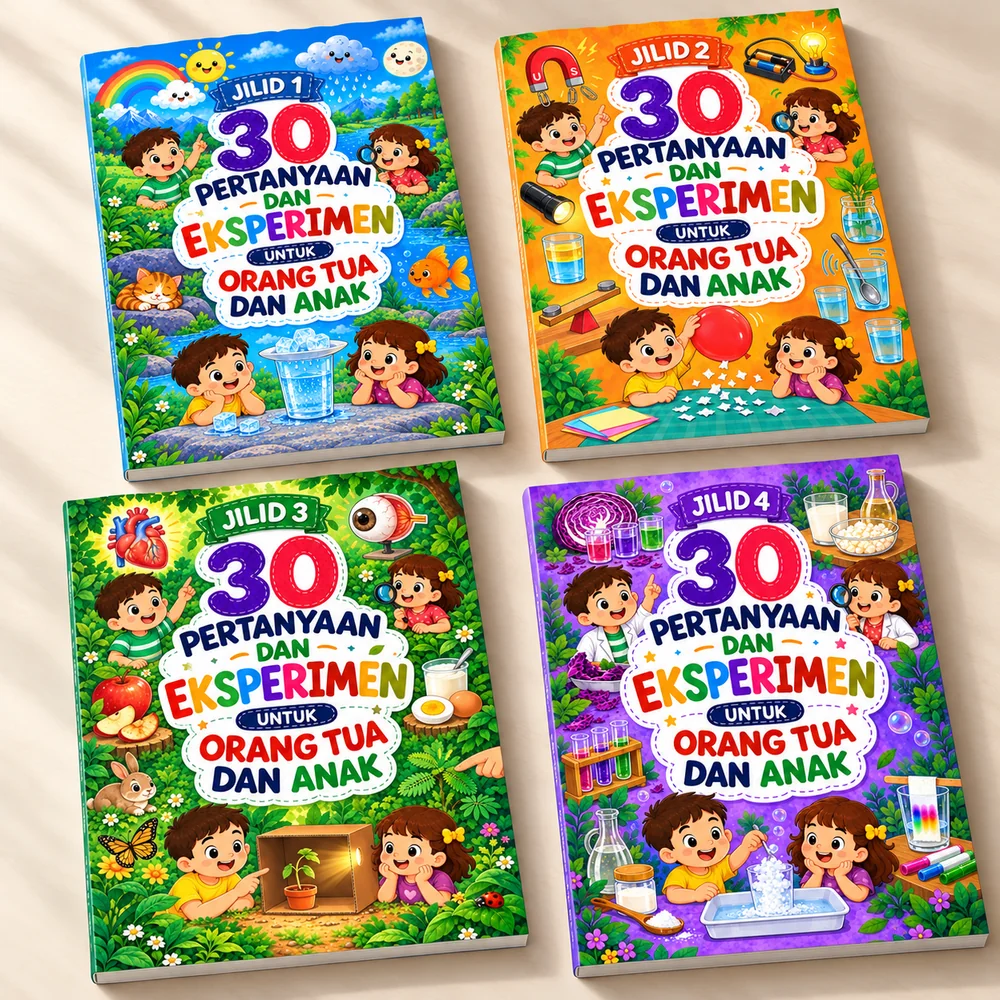
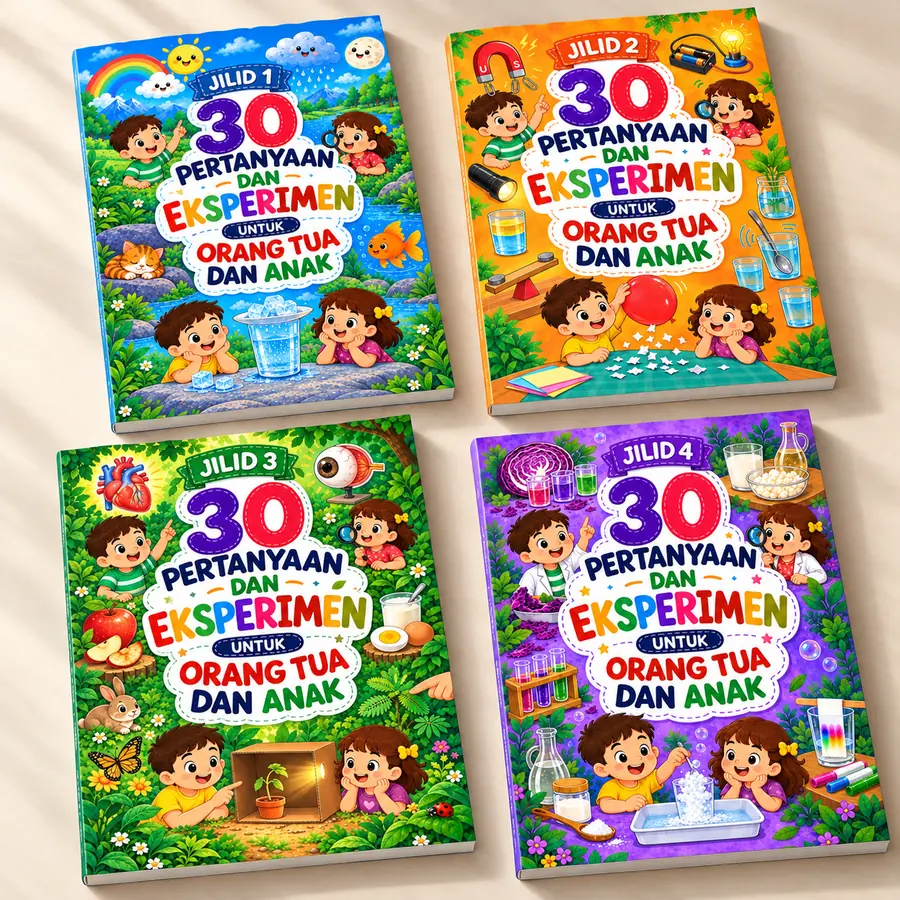
feat: add new animal covers and update mengenal hewan data

diff --git a/src/data/eksperimen_dan_cerita_anak.ts b/src/data/eksperimen_dan_cerita_anak.ts
@@ -25,6 +25,64 @@ const eksperimenJilid = [1, 2, 3, 4].map((jilid, i): Book => ({
   syn: eksperimenSyn,
 }));
 
+const MENGENAL_HEWAN_DIR = "/covers/Eksperimen_dan_cerita_anak";
+
+const mengenalHewanSyn = "Buku edukasi dan cerita ringan berukuran 20x20 cm untuk orang tua dan anak usia 3–10 tahun. Total 32 halaman: 26 halaman isi dan 6 halaman pendukung. Merupakan buku pengenalan hewan dengan bacaan ringan, berkonsep 2 arah seakan-akan buku mengajak pembaca sebagai lawan bicara. Dilengkapi ilustrasi full color dengan artstyle yang soft, serta dwibahasa: bahasa Indonesia dan Inggris.";
+
+// [file cover, judul] — urutan sesuai nomor cover Seri Mengenal Hewan
+const mengenalHewanList: [string, string][] = [
+  ["01_Mio_si_Kucing", "Mio si Kucing"],
+  ["02_Dagi_si_Anjing", "Dagi si Anjing"],
+  ["03_Ello_si_Gajah", "Ello si Gajah"],
+  ["04_Gani_si_Jerapah", "Gani si Jerapah"],
+  ["05_Kobo_si_Kerbau", "Kobo si Kerbau"],
+  ["06_Toni_si_Harimau", "Toni si Harimau"],
+  ["07_Ben_si_Beruang", "Ben si Beruang"],
+  ["08_Panpan_si_Panda", "Panpan si Panda"],
+  ["09_Koko_si_Koala", "Koko si Koala"],
+  ["10_Kiki_si_Kanguru", "Kiki si Kanguru"],
+  ["11_Lomi_si_Lumba-Lumba", "Lomi si Lumba-Lumba"],
+  ["12_Pao_si_Paus_Biru", "Pao si Paus Biru"],
+  ["13_Arka_si_Hiu", "Arka si Hiu"],
+  ["14_Okta_si_Gurita", "Okta si Gurita"],
+  ["15_Hani_si_Burung_Hantu", "Hani si Burung Hantu"],
+  ["16_Kura_si_Kura_Kura", "Kura si Kura-Kura"],
+  ["17_Erlangga_si_Elang", "Erlangga si Elang"],
+  ["18_Pingu_si_Penguin", "Pingu si Penguin"],
+  ["19_Bibi_si_Lebah", "Bibi si Lebah"],
+  ["20_Sammy_si_Semut", "Sammy si Semut"],
+  ["21_Pipi_si_Kupu-Kupu", "Pipi si Kupu-Kupu"],
+  ["22_Frogi_si_Katak", "Frogi si Katak"],
+  ["23_Boni_si_Bunglon", "Boni si Bunglon"],
+  ["24_Sisi_si_Ular", "Sisi si Ular"],
+  ["25_Baya_si_Buaya", "Baya si Buaya"],
+  ["26_Cleo_si_Kelinci", "Cleo si Kelinci"],
+  ["27_Tupi_si_Tupai", "Tupi si Tupai"],
+  ["28_Chiko_si_Ayam", "Chiko si Ayam"],
+  ["29_Sani_si_Sapi", "Sani si Sapi"],
+  ["30_Debi_si_Kuda", "Debi si Kuda"],
+];
+
+// Arka si Hiu sudah ada sejak awal (id 19); buku lain mulai id 23
+let nextHewanId = 23;
+const mengenalHewan = mengenalHewanList.map(([file, t]): Book => ({
+  id: t === "Arka si Hiu" ? 19 : nextHewanId++,
+  t,
+  a: "Muhammad Avicena Wicaksana & Raden Muhammad Syaiful Asyam Ramadhan",
+  cat: CAT,
+  y: 2026,
+  p: 32,
+  badge: "",
+  bg: "#1a3a5a",
+  ic: "\u{1F43E}",
+  age: "3–10 tahun",
+  seri: "Seri Mengenal Hewan",
+  price: 99000,
+  priceOld: 129000,
+  cover: `${MENGENAL_HEWAN_DIR}/${file}.webp`,
+  syn: mengenalHewanSyn,
+}));
+
 export const eksperimenDanCeritaAnak: Book[] = [
   ...eksperimenJilid,
   {
@@ -46,20 +104,5 @@ export const eksperimenDanCeritaAnak: Book[] = [
     cover: "/covers/Eksperimen_dan_cerita_anak/paket_cerdas_lengkap.webp",
     syn: `Paket lengkap berisi 4 buku: Jilid 1, 2, 3, dan 4. ${eksperimenSyn}`,
   },
-  {
-    id: 19,
-    t: "Arka si Hiu",
-    a: "Penerbit Quran",
-    cat: CAT,
-    y: 2026,
-    p: 32,
-    badge: "",
-    bg: "#1a3a5a",
-    ic: "\u{1F988}",
-    age: "3–10 tahun",
-    price: 99000,
-    priceOld: 129000,
-    cover: "/covers/Eksperimen_dan_cerita_anak/CA_ARKA_SI_HIU.webp",
-    syn: "Buku edukasi dan cerita ringan berukuran 20x20 cm untuk orang tua dan anak usia 3–10 tahun. Total 32 halaman: 26 halaman isi dan 6 halaman pendukung. Merupakan buku pengenalan hewan dengan bacaan ringan, berkonsep 2 arah seakan-akan buku mengajak pembaca sebagai lawan bicara. Dilengkapi ilustrasi full color dengan artstyle yang soft, serta dwibahasa: bahasa Indonesia dan Inggris.",
-  },
+  ...mengenalHewan,
 ];
